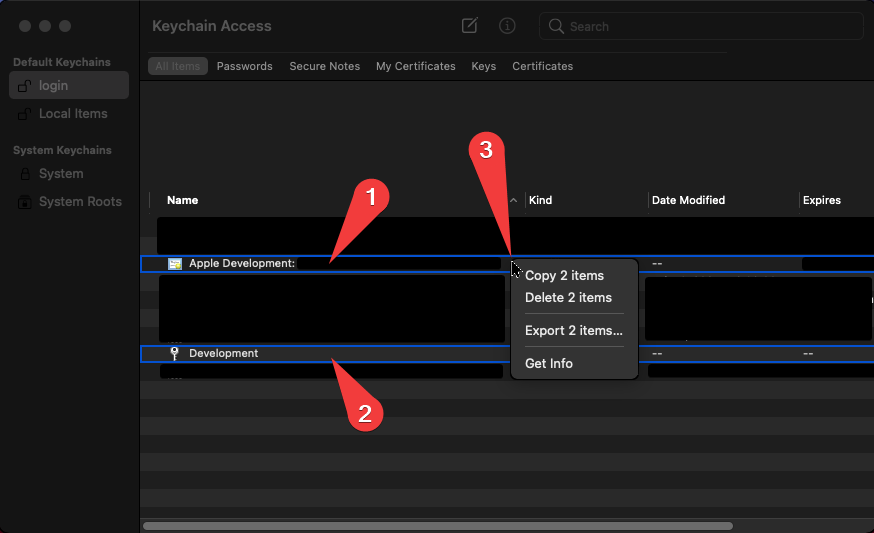
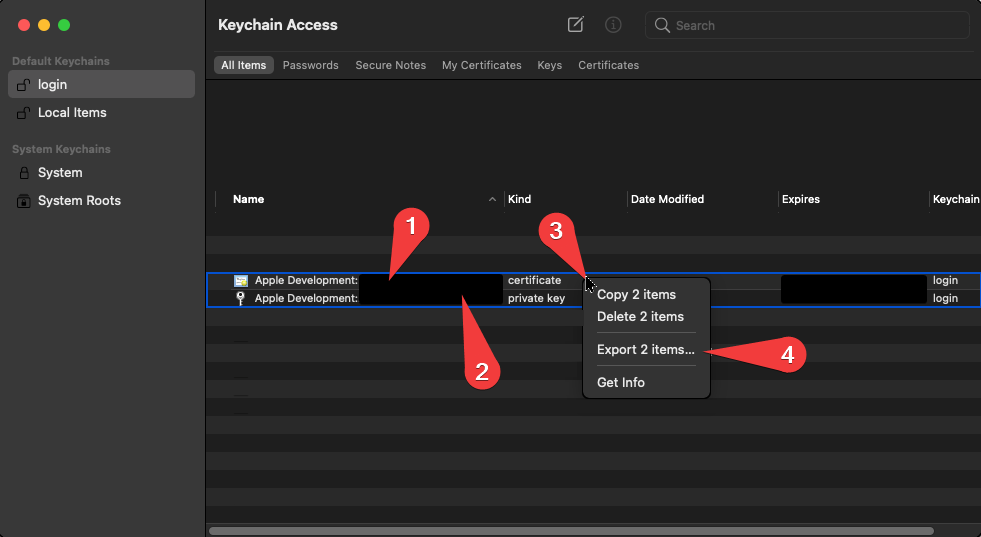
docs: update FAQ

diff --git a/README.md b/README.md
@@ -184,7 +184,7 @@ When an app is uploaded to the service for signing, a signing job is generated a
 
 - Q: How do you export the signing key+certificate?
 
-- A: On your Mac, open the `Keychain` app. There you will find your certificate (1) and private key (2). Select them by holding `Command`, then right-click and select `Export 2 items...` (3). This will export you the `.p12` file you need.
+- A: On your Mac, open the `Keychain` app. There you will find your certificate (1) and private key (2). Select them by holding `Command`, then right-click (3) and select `Export 2 items...` (4). This will export you the `.p12` file you need.
 
   ![](img/5.png)
 
